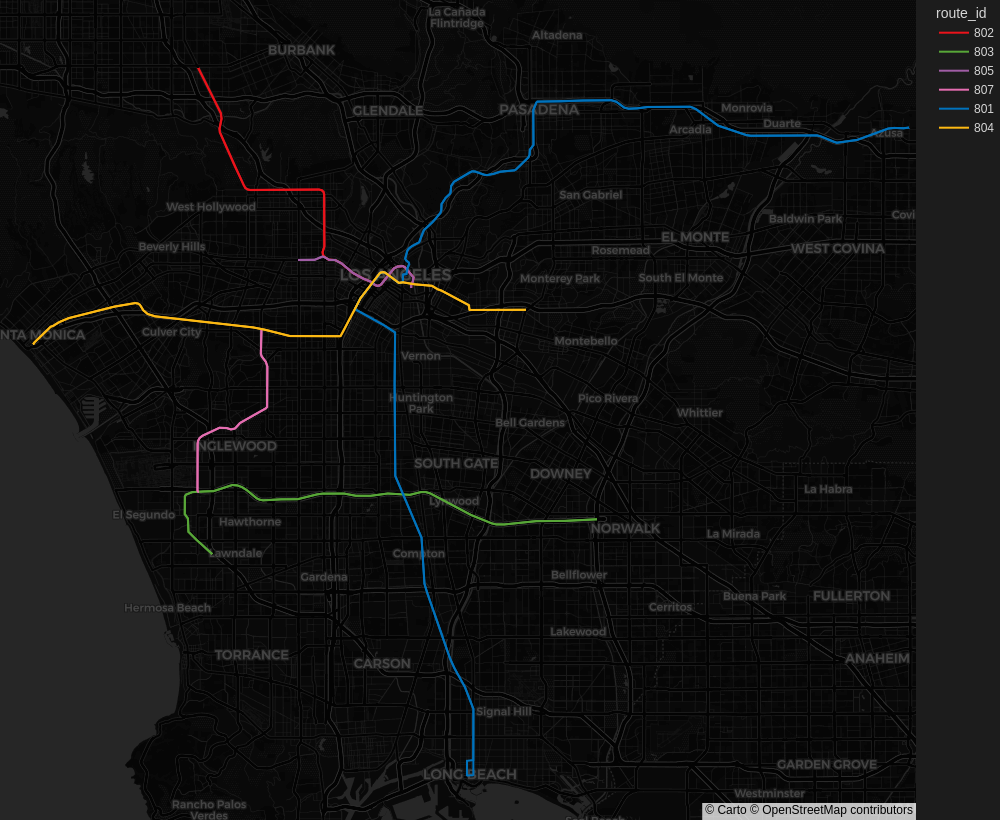
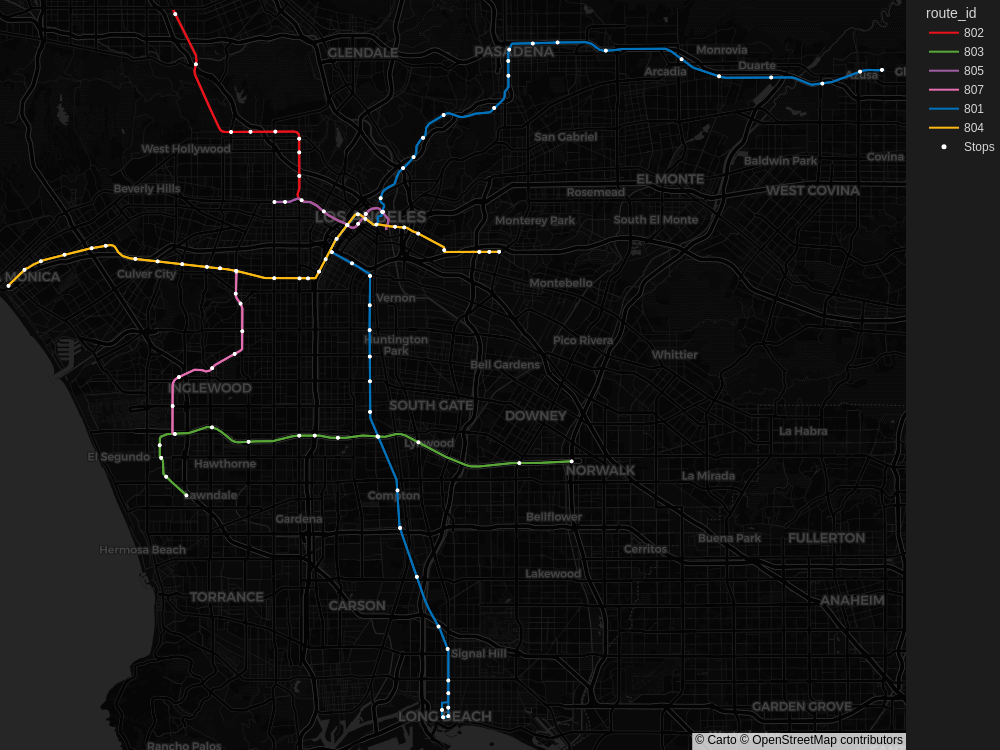
add more samples

diff --git a/README.md b/README.md
@@ -27,7 +27,6 @@ make lint && make typecheck && make test
 ## Examples
 
 ### New York City Subway
-
 Assuming the GTFS data has been exported to `./data/mta_subway`:
 ```sh
 python3 plot.py data/mta_subway --map-style carto-darkmatter --heigth 820 --width 1000 --zoom 10
@@ -35,15 +34,25 @@ python3 plot.py data/mta_subway --map-style carto-darkmatter --heigth 820 --widt
 <img src="./docs/nyc_subway.png" width="800px" />
 
 ### Helsinki Metro:
-
 ```sh
 python3 plot.py data/hsl --map-style carto-darkmatter --filter-routes 31M2 31M1 --width 1000 --heigth 500 --zoom 10 --stops
 ```
 <img src="./docs/helsinki_metro.png" width="800px" />
 
 ### Los Angeles Metro Rail:
-
 ```sh
-python3 plot.py data/la_metro_rail --map-style carto-darkmatter --heigth 820 --width 1000 --zoom 10
+python3 plot.py data/la_metro_rail --map-style carto-darkmatter --heigth 820 --width 1000 --zoom 10 --stops
 ```
 <img src="./docs/la_metro_rail.png" width="800px" />
+
+### Via Rail Canada:
+```sh
+python3 plot.py data/viarail --map-style carto-darkmatter --heigth 500 --width 1000 --zoom 3 --stops
+```
+<img src="./docs/viarail.png" width="800px" />
+
+### VR Group Passenger routes:
+```sh
+python3 plot.py data/vr_passenger --map-style carto-darkmatter --heigth 900 --width 1000 --zoom 5 --stops
+```
+<img src="./docs/vr_passenger.png" width="800px" />
